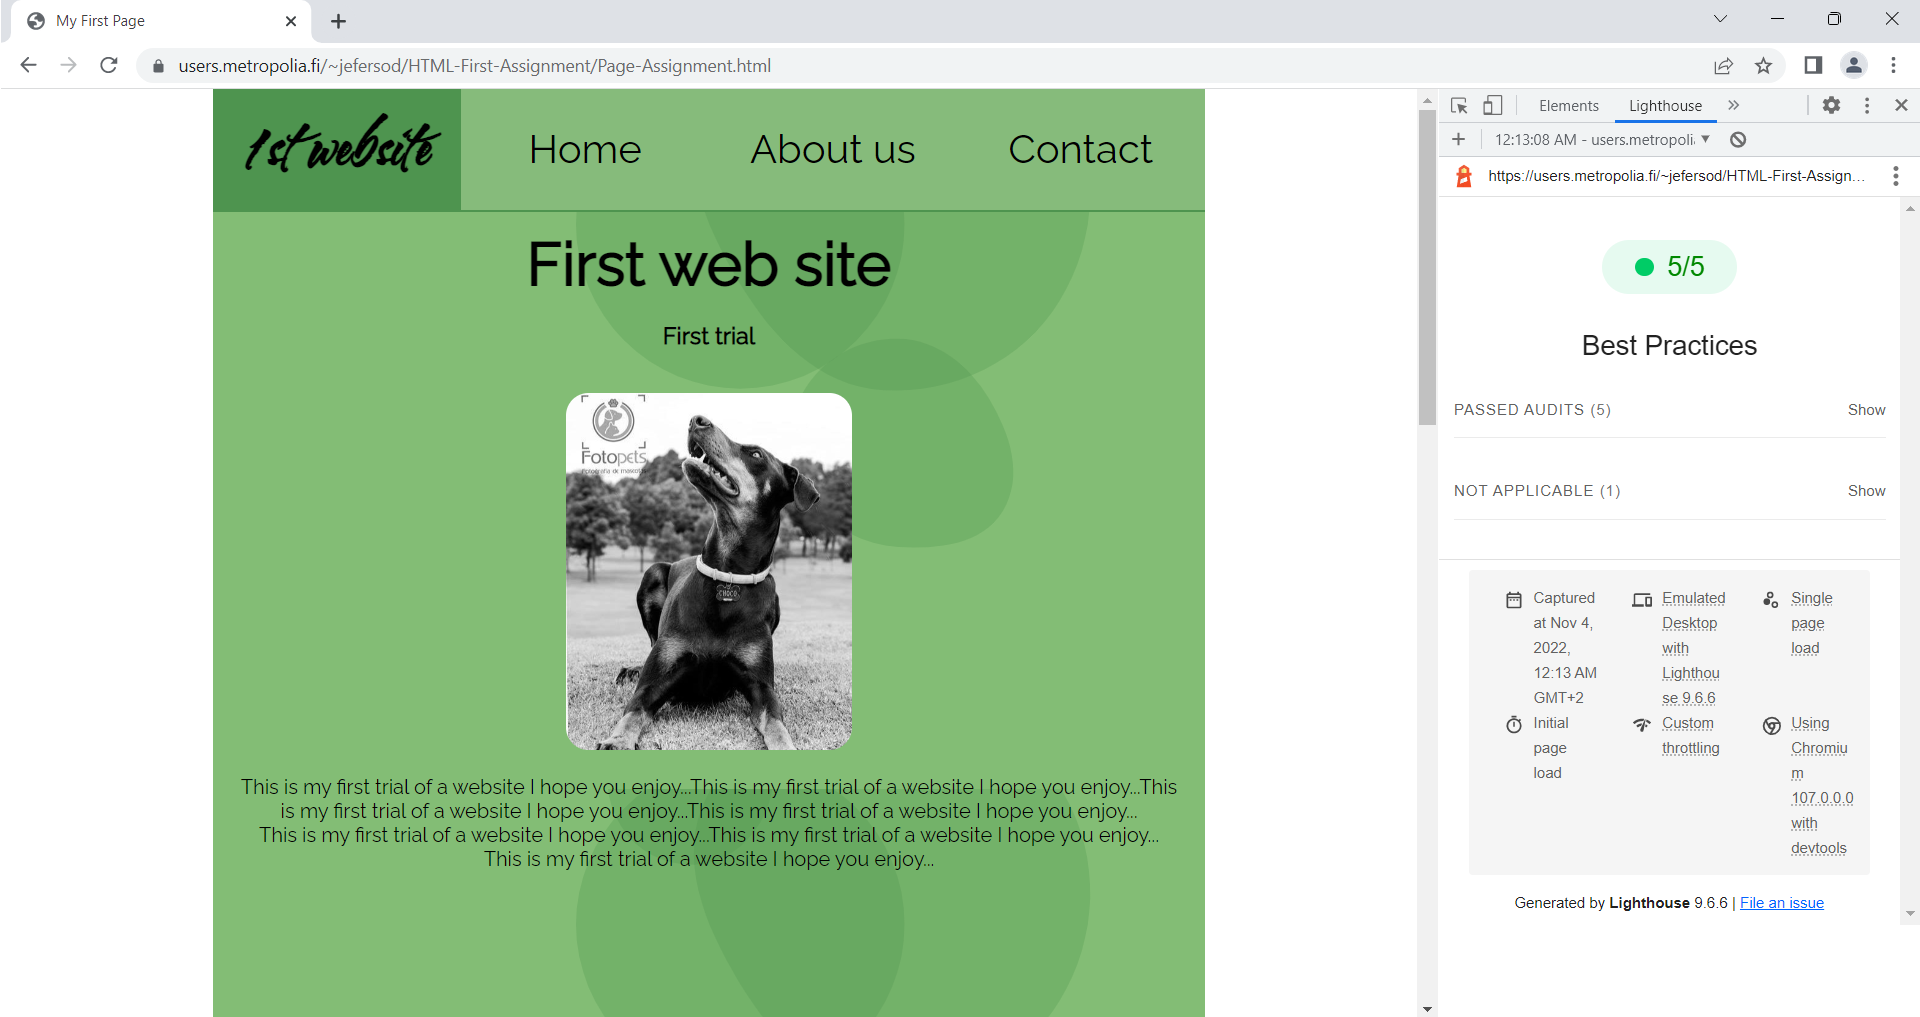
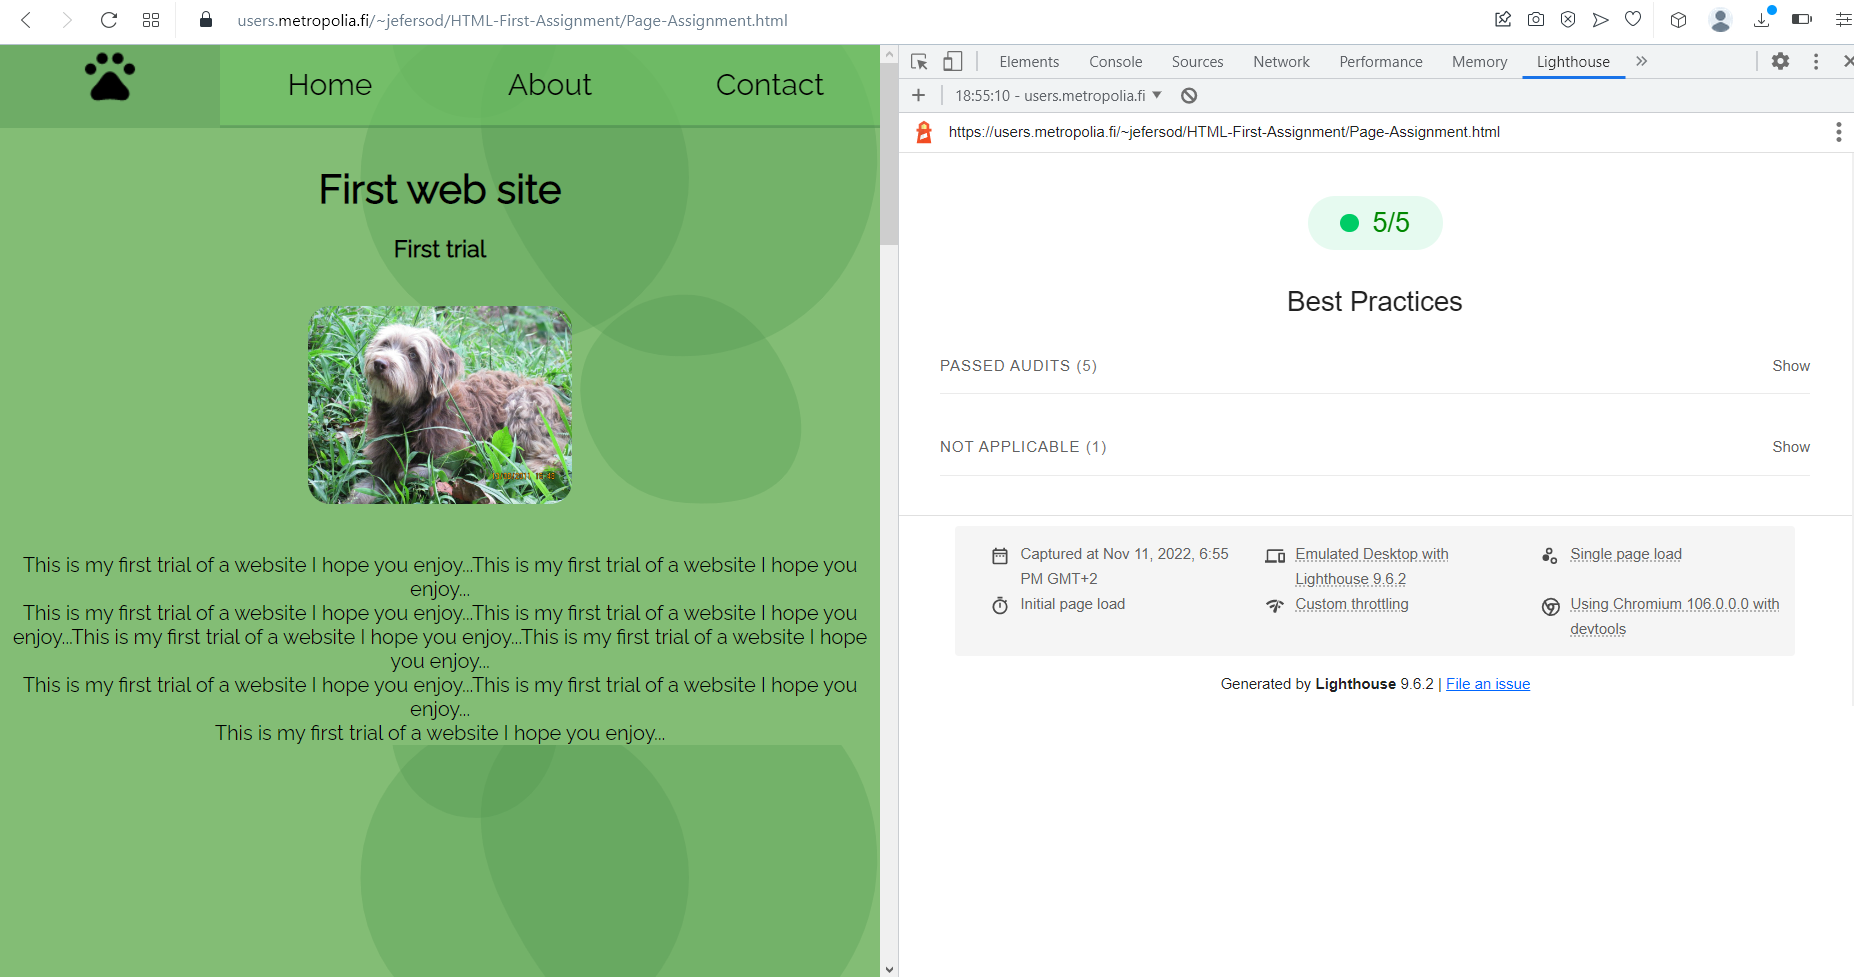
Exercise

diff --git a/Page-Assignment.html b/Page-Assignment.html
@@ -9,7 +9,7 @@
 <body>
 <div class="container">
     <header>
-        <h1 style="text-align:center"><img src="Images/pets.png" alt="Logo" style="width:5rem;height:5rem;"></h1>
+        <h1 style="text-align:center"><img src="Images/pets.png" alt="Logo" style="width:3rem;height:3rem;"></h1>
         <nav>
             <ol>
                 <li><a href="#p1">Home</a></li>
@@ -25,7 +25,7 @@
                 <article>
                     <h3>First trial</h3>
                     <figure>
-                        <img src="Images/choco2.jpg" alt="Picture of choco">
+                        <img src="Images/toby.jpg" alt="Picture of choco">
                     </figure>
                     <p><br>This is my first trial of a website I hope you enjoy...This is my first trial
                     of a website I hope you enjoy...<br>This is my first trial of a website I hope you enjoy...This is
@@ -42,9 +42,9 @@
                 <article>
                     <h3>Here I might introduce Toby</h3>
                     <figure>
-                        <img src="Images/toby.jpg" alt="Picture of Toby">
+                        <img src="Images/irena.jpg" alt="Picture of Toby">
                     </figure>
-                    <p>And here we can find some description about Toby</p>
+                    <p>And here we can find some description about Irena</p>
                 </article>
                 <aside>
                     <ul>
@@ -57,7 +57,7 @@
                         of this item</p>
                         </li>
                         <li><figure>
-                            <img src="https://via.placeholder.com/400x500" alt="some description">
+                            <img src="Images/choco2.jpg" alt="Picture of choco">
                             <figcaption><em>Name of this item</em></figcaption>
                             </figure>
                             <p>description of this item description of this item description of
@@ -86,11 +86,11 @@
                         &nbsp;  <em>+3585555555</em>
                         </p>
                         <p><img src="Images/mail.gif" alt="mail"> &nbsp; &nbsp;<a
-                            href="mailto:jefersod@metropolia.fi"><em>jefersod@metropolia.fi</em></a></p>
+                            href="mailto:jefersod@metropolia.fi" style="color: black"><em>jefersod@metropolia.fi</em></a></p>
                         <p><img src="Images/map.gif" alt="map">
                         &nbsp; &nbsp;<em>Matinkartanontie 6k 107, Espoo</em><br><br></p>
                         <iframe src="https://www.google.com/maps/embed?pb=!1m18!1m12!1m3!1d10448.165602392133!2d24.731306834766862!3d60.15950162780795!2m3!1f0!2f0!3f0!3m2!1i1024!2i768!4f13.1!3m3!1m2!1s0x468df4e28739d759%3A0x93300443cef75e8a!2sIso%20Omena!5e0!3m2!1sen!2sfi!4v1667428405498!5m2!1sen!2sfi"
-                            width="200" height="200" style="border:0;" allowfullscreen="" loading="lazy"
+                            width="150" height="150" style="border:0;" allowfullscreen="" loading="lazy"
                             referrerpolicy="no-referrer-when-downgrade"></iframe>
                     <h4>And thanks for visiting my page, it has been an honor hosting you in your visit</h4>
                     </article>

diff --git a/css/Style-Assignment.css b/css/Style-Assignment.css
@@ -2,21 +2,23 @@
     font-family: Raleway;
     src: url("../Fonts/Raleway/Raleway-Regular.ttf") format("truetype");
 }
-@font-face {
-        font-family: Brush;
-    src: url("../Fonts/Brush/WaterBrush-Regular.ttf") format("truetype");
-}
+
 .container {
     width: 100%;
     margin: auto;
 }
+.first{
+    height: 10%;
+}
+html{
+    scroll-behavior: smooth;
+}
 body {
     margin: 0;
     font-family: Raleway, Verdana, "sans-serif";
-
 }
 header {
-    background-color: #4E944F;
+    background-color: rgba(78, 148, 81, 0.4);
     padding: 0;
     display: flex;
     flex-wrap: wrap;
@@ -26,7 +28,6 @@ header {
 }
 h1 {
     width: 25%;
-    font-family: Brush, Verdana, "sans-serif";
     margin: 0
 }
 nav {
@@ -41,19 +42,19 @@ ol {
     width: 100%;
     padding: 0;
     margin: 0;
-    border-bottom: 2px #4E944F solid;
+    border-bottom: 2px rgba(78, 148, 81, 0.4) solid;
 }
 li{
     width: calc(100% / 3);
 }
 li a {
-    background-color: #86bb7b;
+    background-color: rgba(124, 218, 111, 0.4);
     color: black;
-    height: 6rem;
+    height: 4rem;
     display: block;
     font-size: 1.5rem;
     text-align: center;
-    line-height: 6rem;
+    line-height: 4rem;
     text-decoration: none;
     margin: 0;
     padding: 0;
@@ -156,13 +157,12 @@ section footer article iframe {
 }
 section footer article p {
     text-align: left;
-    margin: 0.9rem 0 0.5rem 0;
+    margin: 0;
     padding: 0;
-    font-size: 0.8rem;
+    font-size: 0.7rem;
     height: 2rem;
 }
 section footer article p img{
-    border-radius: 0.2rem;
     margin: 0;
     padding: 0;
     width: 2rem;
@@ -202,11 +202,11 @@ h4 {
         font-size: 3rem;
     }
     section footer article p {
-        font-size: 1.4rem;
+        font-size: 1rem;
     }
     section footer article iframe {
-        width: 25rem;
-        height: 25rem;
+        width: 20rem;
+        height: 20rem;
 
     }
 }

diff --git a/Results.html b/Results.html
@@ -6,31 +6,17 @@
 </head>
 <body>
 <h2>Fonts</h2>
-<p>Font of the logo from <a href="https://fonts.google.com/specimen/Water+Brush">Google Fonts. Name: Water Brush</a></p>
 <p>Font of the body from <a href="https://fonts.google.com/specimen/Raleway">Google Fonts. Name: Raleway Regular</a></p>
 <pre>
     @font-face {
     font-family: Raleway;
     src: url("../Fonts/Raleway/Raleway-Regular.ttf") format("truetype");
     }
-    @font-face {
-    font-family: Brush;
-    src: url("../Fonts/Brush/WaterBrush-Regular.ttf") format("truetype");
-    }
     body {
     margin: 0;
     font-family: Raleway, Verdana, "sans-serif";
     }
-    h1 {
-    width: 25%;
-    height: 6rem;
-    display: block;
-    text-align: center;
-    line-height: 6rem;
-    font-size: 3rem;
-    font-family: Brush, Verdana, "sans-serif";
-    margin: 0;
-    }
+
 </pre>
 <h2>Validation</h2>
 <p>
